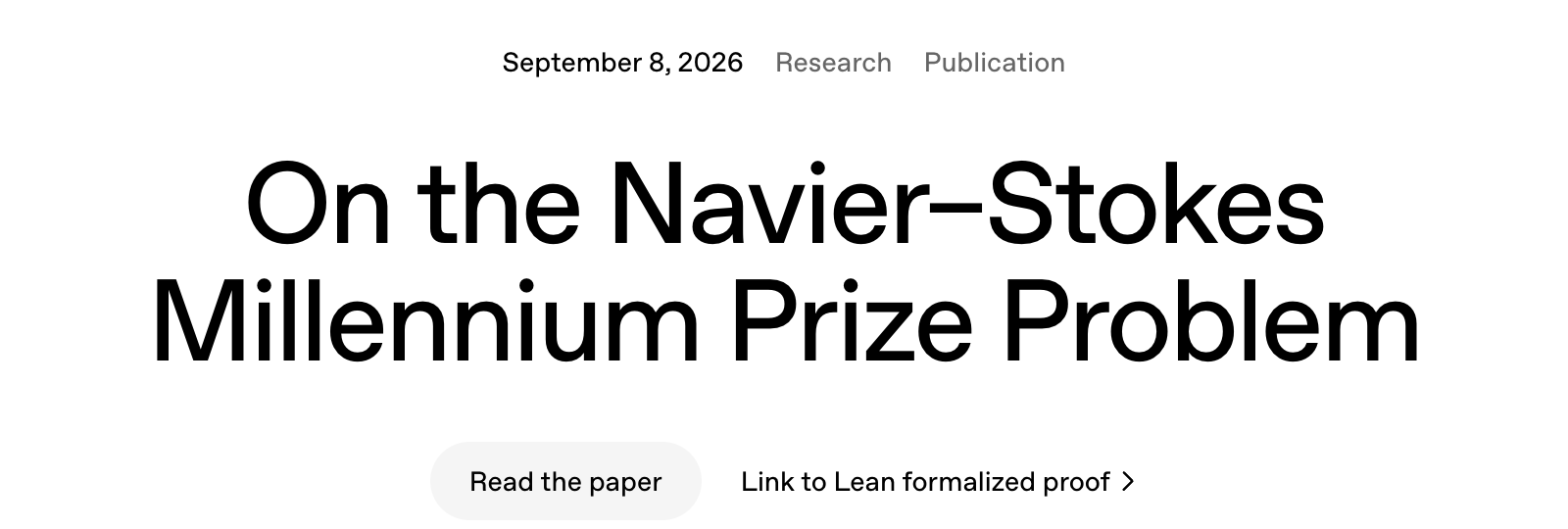
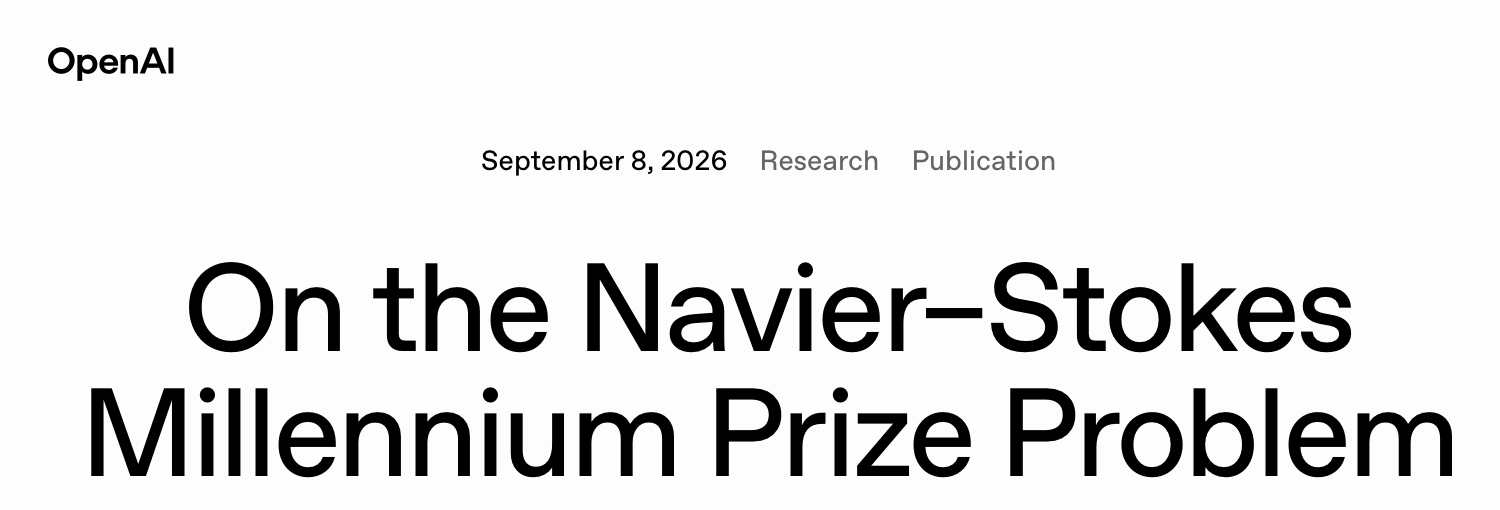
Scattered headlines with captions; SF and PolyFun as projects using CSLib
The AI labs slide places each headline (now with the lab's logo, from
higher-resolution captures) and its caption around the slide: an hstack of
vstacks that custom.css turns into a grid. 'CSLib no ensino' becomes
'Projetos que usam a CSLib': Software Foundations in Lean and PolyFun are
independent projects the Initiative supports, not CSLib's own; FAD and
CSwL stay in the cslib-community table.

diff --git a/static/custom.css b/static/custom.css
@@ -461,3 +461,35 @@
   box-shadow: 0 2px 8px rgba(0, 0, 0, 0.12);
   background: #fff;
 }
+
+/* "Os laboratórios de IA entregam provas em Lean": headlines scattered over
+   the slide, each with its caption underneath. The slide is an hstack of
+   three vstacks (image, caption); here the hstack becomes a grid. */
+.reveal .r-hstack:has(img[src*="news-openai-ten-advances"]) {
+  /* reveal.js sets `.r-hstack { display: flex !important }`. */
+  display: grid !important;
+  grid-template-columns: repeat(12, 1fr);
+  column-gap: 1.4em;
+  row-gap: 0.2em;
+  align-items: start;
+  margin-top: 0.4em;
+}
+.reveal .r-hstack:has(img[src*="news-openai-ten-advances"]) > .r-vstack {
+  align-items: stretch;
+}
+.reveal .r-hstack:has(img[src*="news-openai-ten-advances"]) > .r-vstack p {
+  margin: 0.2em 0;
+}
+.reveal .r-hstack:has(img[src*="news-openai-ten-advances"]) > .r-vstack p:last-child {
+  font-size: 0.6em;
+  line-height: 1.35;
+}
+.reveal .r-hstack:has(img[src*="news-openai-ten-advances"]) > .r-vstack:nth-child(1) {
+  grid-column: 1 / 7; grid-row: 1 / 3; transform: rotate(-1.2deg);
+}
+.reveal .r-hstack:has(img[src*="news-openai-ten-advances"]) > .r-vstack:nth-child(2) {
+  grid-column: 8 / 13; grid-row: 1; margin-top: 0.5em; transform: rotate(1deg);
+}
+.reveal .r-hstack:has(img[src*="news-openai-ten-advances"]) > .r-vstack:nth-child(3) {
+  grid-column: 7 / 13; grid-row: 2; margin-top: 0.6em; transform: rotate(-0.6deg);
+}
